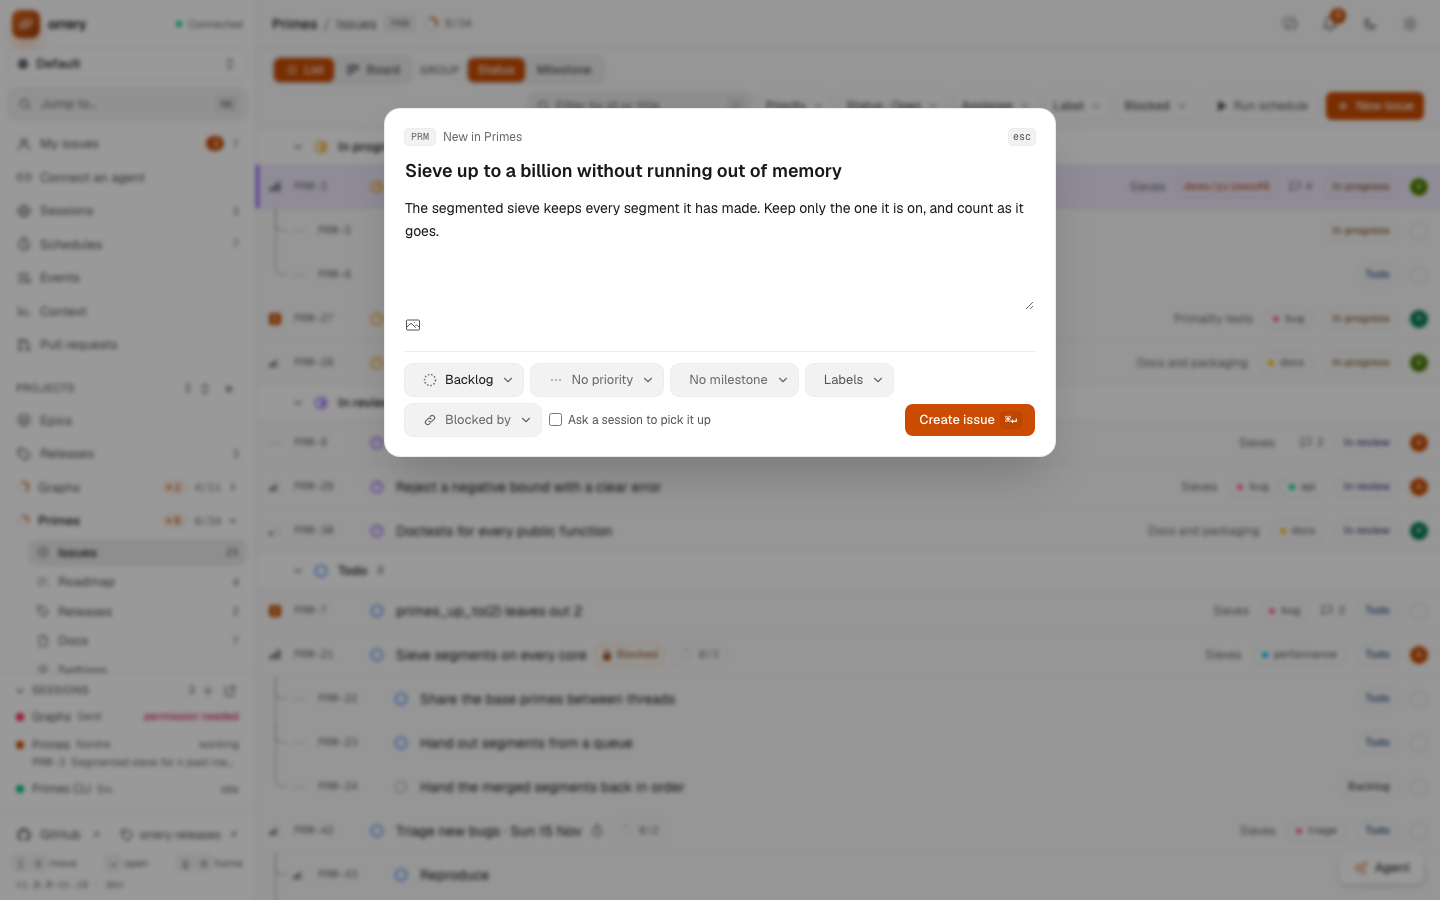
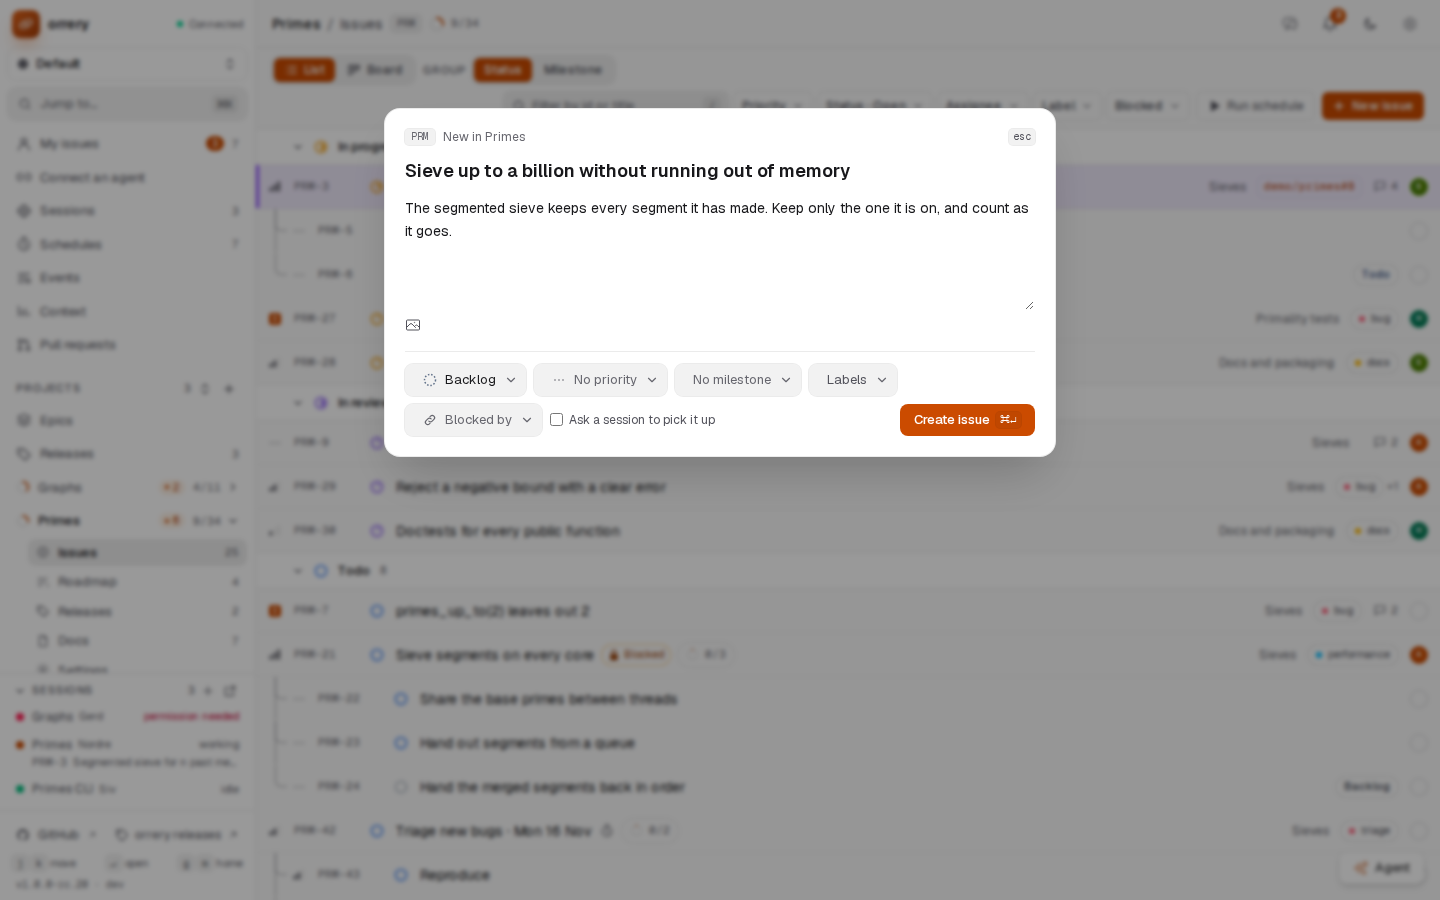
chore(repo): retake the readme images for rc.20 (#1313)
* chore(repo): retake the README images

* docs(repo): describe the folded session cards in the readme

---------

diff --git a/README.md b/README.md
@@ -24,7 +24,7 @@ In practice:
 <td><img alt="The New issue dialog over a project's issue list, with a title and description typed in, and its status, priority, milestone and labels to pick" src="docs/images/new-issue-light.png"></td>
 </tr>
 <tr>
-<td><img alt="The Sessions page: each project's Claude sessions with their state, folder and a message box, and what the working one is on now" src="docs/images/sessions-light.png"></td>
+<td><img alt="The Sessions page: each project's Claude sessions, one line each with its state and since when, the working one with the issue it's on, and one asking for permission" src="docs/images/sessions-light.png"></td>
 <td><img alt="The chat pane open over a project's issue list, ready for a first question, with suggestions and new issues going to Todo" src="docs/images/chat-light.png"></td>
 </tr>
 <tr>
